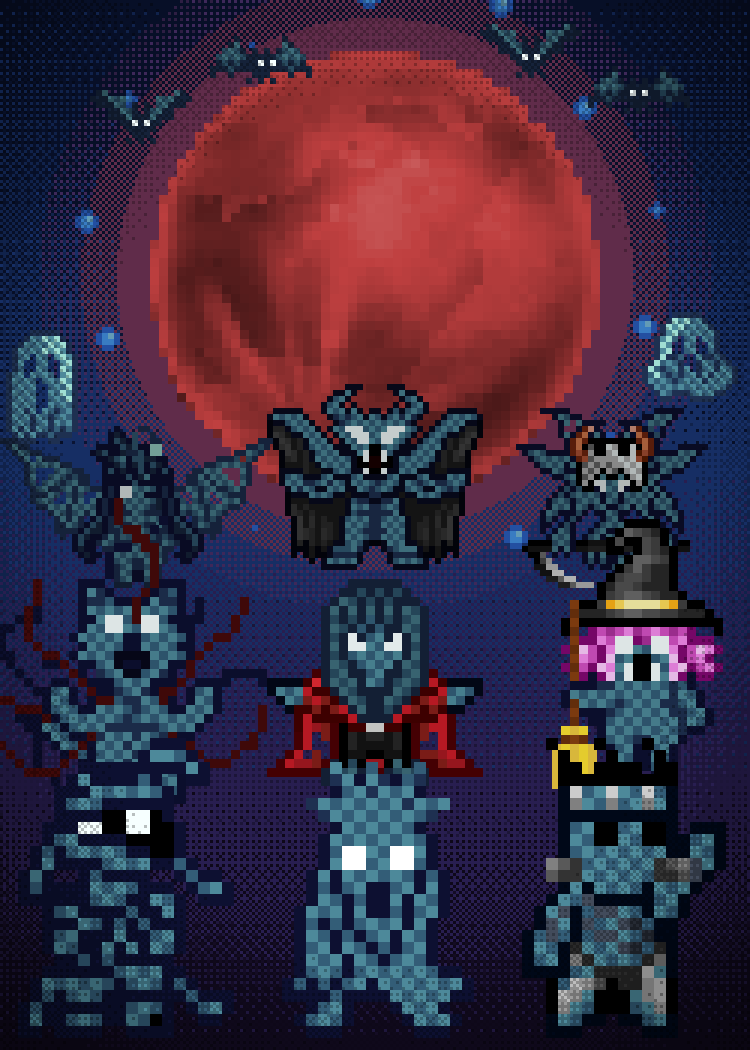
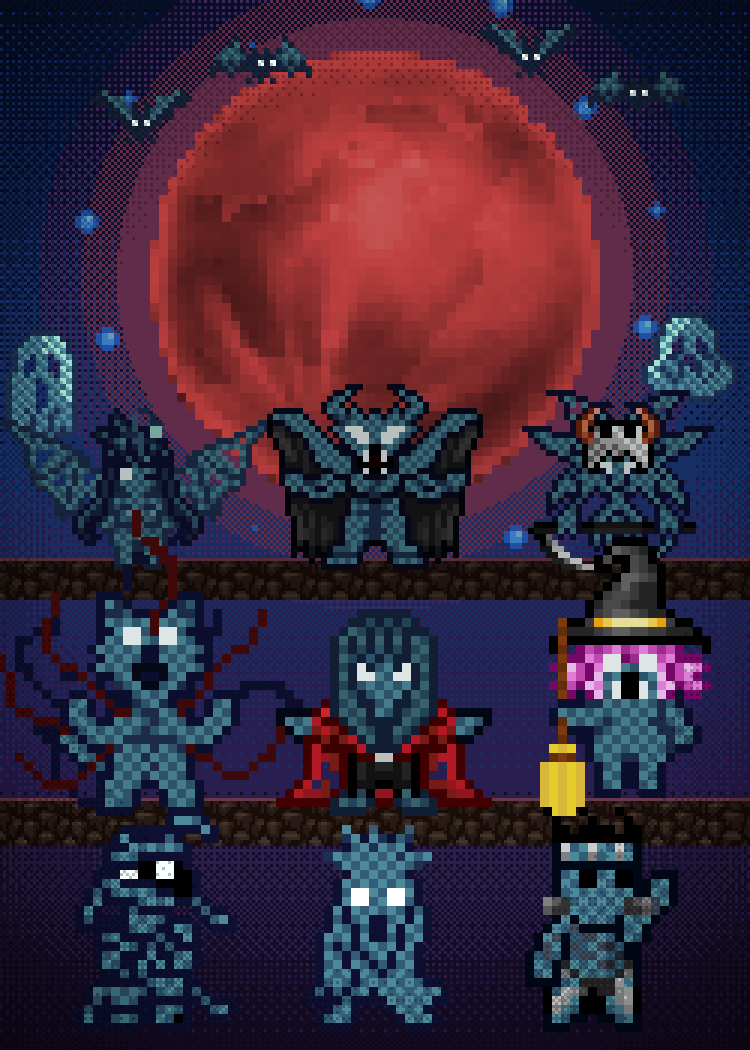
Sleeve-Entwürfe Runde 3: Block F (33–38, GN/Arcanum) und Zwischenstand
Claude-Session: https://claude.ai/code/session_01TEnvTzH2xD44R6Unjv7vDo

Changed region(s): [[0.0, 0.3657, 1.0, 1.0]]

diff --git a/data/sleeve-proposals/runde3/generator/s13_monster_family.py b/data/sleeve-proposals/runde3/generator/s13_monster_family.py
@@ -6,7 +6,8 @@ Hexe, vorne Mumie, Zombie und Deepsea-Stein; Fledermäuse und Poltergeister schw
 Quellen (MotiveDeepsea.xcf, jeweils Karte „Deepsea …“):
   Ebene 294 „Succubus“, 301 „Siphem“, 298 „Reaper“ – 2×, abgedunkelt
   Ebene 329 „Werewolf“, 335 „TEPPES“ (Vampir-Teil), 309 „Witch #1“ – 3×
-  Ebene 304 „Mummy“, 322 „Zombie“, 362 „Deepsea Stein“ – 4×
+  Ebene 304 „Mummy“, 322 „Zombie“, 362 „Deepsea Stein“ – 3×
+  Ebene 386 „Ebene #194“ – Felstextur für die Stufen
   Ebene 346 „Bats“ (2×), 331 „Poltergeister“ (2×), 381 „Ebene #160“ (Blutmond, 3×),
   Ebene 341 „Ebene #150“ (Blasen, Karte „Blood Moon under the Sea“)
   Farben: Deepsea-Meer (Ebene 391) und Blutmond-Rot.
@@ -57,28 +58,39 @@ def row(items, k, bottom, xs, dim):
         pb(cv, S, x, bottom)
 
 
+# Felsstufen (wie Tribünen), aus der Deepsea-Felstextur
+rock = compose(D, [386])
+rt = rock[40:103, 60:109]                     # voll deckender Ausschnitt der Textur
+
+
+def ledge(y0, y1, dim, ox=0):
+    t = tile_rgb(rt, W, y1 - y0, ox=ox)
+    t = (t.astype(float) * dim * np.array([0.55, 0.6, 0.95])).astype(np.uint8)
+    cv.a[y0:y1] = t
+    # Stufenkante: oben Mondlicht, darunter ein dunkler Schlagschatten
+    cv.a[y0] = (int(170 * dim), int(90 * dim), int(120 * dim))
+    cv.a[y0 + 1] = (int(120 * dim), int(70 * dim), int(100 * dim))
+    for y in range(y0 + 8, y1):
+        f = 1 - 0.5 * (y - y0 - 8) / max(1, y1 - y0 - 8)
+        cv.a[y] = (cv.a[y] * f).astype(np.uint8)
+
+
+ledge(184, 268, 0.5, ox=7)
+ledge(264, H, 0.62, ox=23)
+
 # hintere Reihe
 succ = compose(D, [294]); siph = compose(D, [301]); reap = compose(D, [298])
-row([succ, reap], 2, 196, [46, 204], 0.72)
-row([siph], 2, 190, [125], 0.8)
-# Boden/Lichtkante der Reihen: dunkler Schleier nach unten
-for y in range(196, H):
-    t = min(0.5, (y - 196) / 300)
-    for x in range(W):
-        if t > BAYER4[y % 4, x % 4]:
-            cv.a[y, x] = (cv.a[y, x] * 0.7).astype(np.uint8)
+row([succ, siph, reap], 2, 190, [46, 125, 206], 0.75)
 
 # mittlere Reihe
 wolf = compose(D, [329])
 tep = [p for p in parts(compose(D, [335]), dil=1) if p.shape[:2] == (23, 24)][0]
 witch = compose(D, [309])
-row([wolf], 3, 268, [44], 0.9)
-row([witch], 3, 266, [212], 0.9)
-row([tep], 3, 262, [125], 0.92)
+row([wolf, tep, witch], 3, 272, [50, 128, 208], 0.9)
 
 # vordere Reihe
 mum = compose(D, [304]); zom = compose(D, [322]); stein = compose(D, [362])
-row([mum, zom, flip(stein)], 4, 346, [42, 126, 208], 1.0)
+row([mum, zom, flip(stein)], 3, 344, [52, 126, 200], 1.0)
 
 vignette(cv, 0.5, 0.58)
 print(save(cv, '13_deepsea_family.png'))

diff --git a/data/sleeve-proposals/runde3/generator/s17_hydra_duel.py b/data/sleeve-proposals/runde3/generator/s17_hydra_duel.py
@@ -36,10 +36,18 @@ shade_rows(cv, 0, 150, 0.6, 0.0, (8, 12, 40))          # Sturmdunkel über dem M
 # ---------- Hydra: aus dem Meer aufsteigend (hinter der Uferlinie)
 hydra = sprite('c17_hydra', RU, [9])
 Hy = up(hydra, 2)
-hx, hy = (W - Hy.shape[1]) // 2, 22
-SHORE = 2 * (175 - (Y1 - Y0) + 26) if L is not None else 190   # grobe Uferzeile (nur für Wasserlinie)
-cv.paste(silhouette(Hy, (10, 16, 50)), hx + 4, hy + 6, alpha=0.5)
-cv.paste(Hy, hx, hy)
+WL = 176                                               # Wasserlinie im hellen Meer vor dem Ufer
+hx, hy = (W - Hy.shape[1]) // 2, WL + 12 - Hy.shape[0]
+vis = Hy[:WL - hy]                                     # nur der Teil über dem Wasser
+cv.paste(silhouette(vis, (10, 16, 50)), hx + 4, hy + 6, alpha=0.5)
+cv.paste(vis, hx, hy)
+# Schaumkante, wo die Hydra ins Wasser taucht
+cols = np.nonzero(Hy[WL - hy - 1, :, 3] > 0)[0]
+for c in cols:
+    cv.px(hx + c, WL, (226, 232, 255))
+    if c % 3: cv.px(hx + c, WL + 1, (160, 180, 250))
+for c in (cols.min() - 3, cols.min() - 2, cols.max() + 2, cols.max() + 3):
+    cv.px(hx + c, WL + 1, (226, 232, 255))
 
 # ---------- Bärenreiter von hinten, groß im Vordergrund
 bear = sprite('c17_bear_back', RU, [76])
